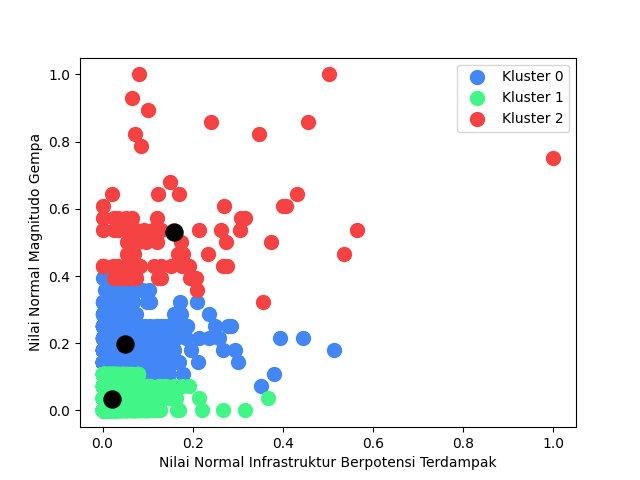
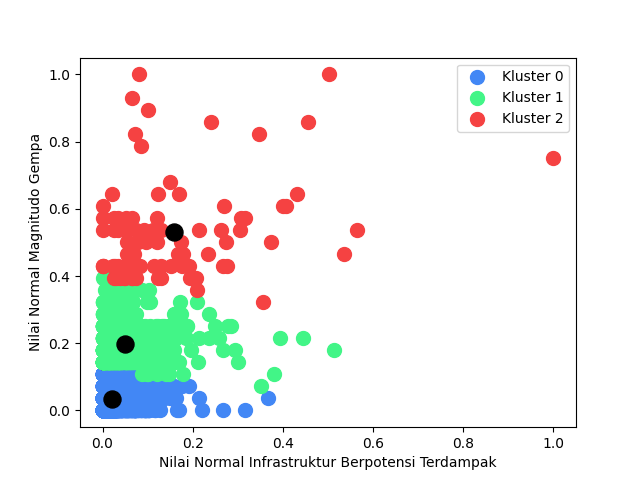
hopefully last commit

Changed region(s): [[0.125, 0.5625, 0.4375, 0.875], [0.4062, 0.6875, 0.5, 0.7188], [0.5, 0.7188, 0.5312, 0.75]]

diff --git a/mapgempa/templates/klustergempa.html b/mapgempa/templates/klustergempa.html
@@ -12,8 +12,53 @@ Kluster Data Gempa
 
 {% block extracontent %}
 <h2 class="text-center">Kluster Data Gempa Menggunakan Algoritma K-Means Clustering</h3>
-<div id="mappage" class="mt-5"></div>
 <div class="row d-flex justify-content-center">
+  <div class="col-12 mt-3">
+    <div id="mappage"></div>
+  </div>  
+  <div class="col-lg-12 mt-4 konten">
+    <p>
+      Salah satu fitur yang diterapkan pada WebGIS ini adalah analisis pengelompokkan data gempa pada database dengan algoritma K-Means Clustering berdasarkan magnitudo gempa dan 
+      jumlah infrastruktur berpotensi terdampak. Pengelompokkan data gempa dilakukan untuk mendapatkan kelompok data gempa berdasarkan kekuatan gempa dan potensi dampak yang 
+      dihasilkan sehingga instansi-instansi terkait dapat menyusun skala prioritas dan mengetahui daerah yang memiliki kerentanan terhadap bencana gempa bumi.
+      Tahapan yang dilakukan pada analisis pengelompokkan data gempa ini dibagi menjadi 3 tahapan, yaitu pengumpulan data, preprocessing data, dan analisis clustering dengan algoritma K-Means.
+    </p>
+    <p>
+      Tahapan pertama dari analisis pengelompokan data gempa ini merupakan pengumpulan data kejadian gempa yang bersumber dari dataset gempa dari situs web Earthquake Hazards Program 
+      milik United States Geological Survey (USGS) melalui situs https://earthquake.usgs.gov/. Data kejadian gempa yang digunakan merupakan data kejadian gempa pada tahun 2020-2021
+      dengan batasan wilayah berada diantara 94°BT - 142°BT hingga 7°LU - 12°LS dan magnitudo diatas 4,5. 
+      Variabel data yang digunakan dalam K-Means Clustering adalah kekuatan magnitudo kejadian gempa dan jumlah infrastruktur berpotensi terdampak kejadian gempa.
+    </p>
+    <p> 
+      Tahapan selanjutnya adalah preprocessing data yang terdiri dari penentuan variabel jumlah infrastruktur berpotensi terdampak tiap kejadian gempa dan normalisasi data. 
+      Penentuan variabel jumlah infrastruktur berpotensi terdampak didapatkan dari banyaknya infrastruktur PUPR yang berada pada radius gempa dirasakan dari pusat kejadian gempa. 
+      Radius gempa dirasakan dihitung dengan menggunakan rumus estimasi radius gempa dirasakan yang disusun oleh Guttenberg dan C. F. Richter (1956). 
+      Estimasi radius gempa dirasakan dihitung dengan memperhatikan persepsi minimum pada radius terluar mengalami percepatan pergerakan tanah sebesar 1 gal.
+      Berikut merupakan rumus estimasi radius gempa dirasakan:
+    </p>
+    <div class="d-flex justify-content-center" style="height: 30px;" data-aos="fade-up">
+      <img src="{% static 'assets/img/equation.png' %}" class="img-fluid" alt="rumus-radius">
+    </div>
+    <p style="text-indent: 0px;">
+      Dimana r merupakan radius gempa dirasakan dan M adalah magnitudo gempa.
+    </p>
+    <p>
+      Apabila seluruh variabel data kejadian gempa telah didapatkan, selanjutnya dilakukan normalisasi data dengan menggunakan metode normalisasi min-max. 
+      Normalisasi data dilakukan untuk mengubah variabel data agar memiliki distribusi yang serupa. Rumus perhitungan normalisasi min-max adalah sebagai berikut:
+    </p>
+    <div class="d-flex justify-content-center" style="height: 30px;" data-aos="fade-up">
+      <img src="{% static 'assets/img/normalized.png' %}" class="img-fluid" alt="rumus-radius">
+    </div>
+    <p style="text-indent: 0px;">
+      Dimana minRange dan maxRange merupakan jangkauan skala normal yang diinginkan, minValue merupakan nilai variabel terendah,
+      maxValue merupakan nilai variabel tertinggi, serta x merupakan nilai variabel tiap kejadian gempa.
+    </p>
+    <p>
+      Tahapan akhir dari analisis pengelompokkan data gempa ini adalah analisis clustering dengan menggunakan algoritma K-Means. Analisis clustering dilakukan menggunakan bahasa pemrograman Python
+      dengan bantuan library SKLearn sehingga proses analisis dapat dilakukan sepenuhnya dalam bagian server web. Data kejadian gempa dikelompokkan menjadi tiga kluster yang meliputi "Kluster 0", 
+      "Kluster 1", dan "Kluster 2".
+    </p>
+  </div>
   <div class="col-lg-6" data-aos="fade-up">
     <img src="{% static 'assets/img/cluster_figure.png' %}" class="img-fluid" alt="diagram-kluster">
   </div>
@@ -29,36 +74,45 @@ Kluster Data Gempa
         <th scope="col" class="col-3">Magnitudo</th>
         <th scope="col" class="col-3">Infrastruktur Berpotensi Terdampak</th>
       </tr>
-      {% for kluster in kluster %}
+      {% for n in kluster %}
       <tr>
         <td scope="row">
-          <span class="simbol" style="background-color: {{ kluster.warna }};"></span>
+          <span class="simbol" style="background-color: {{ n.warna }};"></span>
         </td>
-        <th class="my-auto">{{ kluster.name }}</th>
-        <td>{{ kluster.mag_centroid }}</td>
-        <td>{{ kluster.inf_centroid }}</td>
-        <td>{{ kluster.jumlah }}</td>
+        <th class="my-auto">{{ n.name }}</th>
+        <td>{{ n.mag_centroid }}</td>
+        <td>{{ n.inf_centroid }}</td>
+        <td>{{ n.jumlah }}</td>
       </tr>
       {% endfor %}
     </table>
   </div>
   <div class="col-lg-12 mt-4 konten">
-    <p>
-      Lorem ipsum dolor sit amet, consectetur adipiscing elit. Curabitur diam massa, egestas feugiat odio at, posuere elementum nulla. 
-      Maecenas malesuada arcu a lectus egestas posuere. Fusce non vulputate massa. Donec cursus tellus et leo elementum, vel efficitur diam 
-      fermentum. Quisque non tellus dui. Mauris porttitor, justo vel luctus varius, neque arcu rutrum nunc, a placerat metus nibh eu metus. Donec 
-      id quam tempus, tempus orci nec, tempus eros. Nullam ultricies posuere condimentum.
-    </p>
-    <div class="d-flex justify-content-center" style="height: 30px;" data-aos="fade-up">
-      <img src="{% static 'assets/img/equation.png' %}" class="img-fluid" alt="rumus-radius">
-    </div>
-    <p>
-      Aliquam urna felis, hendrerit et sodales nec, porta consectetur urna. Nulla in venenatis libero. Orci varius natoque penatibus et magnis 
-      dis parturient montes, nascetur ridiculus mus. Integer quis tincidunt nibh. Curabitur rhoncus tellus vitae diam congue, et semper arcu imperdiet. 
-      Sed volutpat in lacus eget lobortis. Nam malesuada ligula et felis pharetra placerat. Nulla facilisi. Sed a mi semper ante vestibulum scelerisque. 
-      Suspendisse ultrices vitae justo et dapibus. Nulla facilisi. Sed tempus est nec velit gravida, egestas tempus est molestie. Nunc non dui nulla. 
-      Nullam vehicula, urna at hendrerit feugiat, orci ligula lacinia nulla, posuere fringilla purus purus a nibh. Donec at diam id neque sodales tristique.
-    </p>
+    <P>
+      Grafik dan Tabel diatas merupakan hasil dari clustering data kejadian gempa dengan menggunakan algoritma K-Means.
+      Didapatkan tiga kluster gempa yang ditandai dengan warna-warna yang berbeda, "Kluster 0" dengan warna biru, "Kluster 1" dengan warna hijau, "Kluster 2" 
+      dengan warna merah, dan tanda hitam pada grafik merupakan centroid tiap-tiap kluster.
+    </P>
+    <P>
+      {% for n in kluster %}
+        {% if n.name == 'Kluster 2' %} 
+          Dari hasil yang didapatkan, dapat diketahui gempa yang terkategorikan pada 
+          <span class="kluster-tinggi">{{ n.name }}</span> 
+          merupakan kelompok gempa dengan potensi dampak yang paling besar, kluster ini memiliki centroid paling tinggi jika dibandingkan dengan kluster lain yaitu dengan nilai centroid mangitudo dalam skala normalisasi sebesar 
+          <span class="centroid-mag-tinggi">{{ n.mag_centroid }}</span> dan centroid Infrastruktur Berpotensi Terdampak dalam skala normalisasi sebesar 
+          <span class="centroid-inf-tinggi">{{ n.inf_centroid }}</span>.
+        {% endif %}
+      {% endfor %}
+        <!-- CHANGE WITH APROPRIATE CATEGORIES -->
+      {% for n in kluster %}
+        {% if n.name == 'Kluster 0' %}
+          Selanjutnya kluster dengan potensi dampak menengah merupakan 
+          <span class="kluster-tengah">{{ n.name }}</span> dengan nilai centroid mangitudo dalam skala normalisasi sebesar 
+          <span class="centroid-mag-tengah">{{ n.mag_centroid }}</span> dan centroid Infrastruktur Berpotensi Terdampak dalam skala normalisasi sebesar 
+          <span class="centroid-inf-tengah">{{ n.inf_centroid }}</span>.
+        {% endif %}
+      {% endfor %}
+    </P>
   </div>
 </div>
 {% endblock %}

diff --git a/mapgempa/templates/gempa.html b/mapgempa/templates/gempa.html
@@ -18,12 +18,8 @@
     <link href="https://fonts.googleapis.com/css?family=Open+Sans:300,300i,400,400i,600,600i,700,700i|Raleway:300,300i,400,400i,500,500i,600,600i,700,700i|Poppins:300,300i,400,400i,500,500i,600,600i,700,700i" rel="stylesheet">
   
     <!-- Vendor CSS Files -->
-    <link href="{% static 'assets/vendor/aos/aos.css' %}" rel="stylesheet">
     <link href="https://cdn.jsdelivr.net/npm/bootstrap@5.1.3/dist/css/bootstrap.min.css" rel="stylesheet" integrity="sha384-1BmE4kWBq78iYhFldvKuhfTAU6auU8tT94WrHftjDbrCEXSU1oBoqyl2QvZ6jIW3" crossorigin="anonymous">
     <link href="{% static 'assets/vendor/bootstrap-icons/bootstrap-icons.css' %}" rel="stylesheet">
-    <link href="{% static 'assets/vendor/boxicons/css/boxicons.min.css' %}" rel="stylesheet">
-    <link href="{% static 'assets/vendor/glightbox/css/glightbox.min.css' %}" rel="stylesheet">
-    <link href="{% static 'assets/vendor/swiper/swiper-bundle.min.css' %}" rel="stylesheet">
   
     <!-- Template Main CSS File -->
     <link href="{% static 'assets/css/style.css' %}" rel="stylesheet">
@@ -44,8 +40,8 @@
       <div id="sidebar-left" class="sidebar shadow-lg">
         <div class="sidebar-wrapper">
           <div id="toggle-left" class="toggle">
-            <button id="close-button-left" class="close-button" onClick="closeNavLeft()"><i class="bi bi-arrow-left-circle"></i></button></h3>
-            <button id="open-button-left" class="open-button" onClick="openNavLeft()"><i class="bi bi-arrow-right-circle"></i></button></h3>
+            <button id="close-button-left" class="close-button" onClick="closeNavLeft()"><i class="bi bi-chevron-double-left"></i></button></h3>
+            <button id="open-button-left" class="open-button" onClick="openNavLeft()"><i class="bi bi-chevron-double-right"></i></button></h3>
           </div>
             <div class="scrollbar">
               <ul>
@@ -126,19 +122,19 @@
       <div id="sidebar-right" class="sidebar shadow-lg">
         <div class="sidebar-wrapper">
           <div id="toggle-right" class="toggle">
-            <button id="close-button-right" class="close-button" onClick="closeNavRight()"><i class="bi bi-arrow-right-circle"></i></button></h3>
-            <button id="open-button-right" class="open-button" onClick="openNavRight()"><i class="bi bi-arrow-left-circle"></i></button></h3>
+            <button id="close-button-right" class="close-button" onClick="closeNavRight()"><i class="bi bi-chevron-double-right"></i></button></h3>
+            <button id="open-button-right" class="open-button" onClick="openNavRight()"><i class="bi bi-chevron-double-left"></i></button></h3>
           </div>
           <div class="scrollbar">
             <ul style="width: 100%;">
               <li>
                 <p class="sector-title">Basemap</p>
                 <div class="basemap" style="margin-right: 0px; margin-left: 0px;">
-                  <a href="#" data-toggle="tooltip" title="" class="basemap-selector" data-id="1" navbar-theme="themelight1" data-original-title="RupabumiIndonesia" style="background: url('https://srgi.big.go.id/assets/images/basemaps/basemap_rbi.png');background-size: cover" onclick="changebasemap(osm)"> 
+                  <a data-toggle="tooltip" title="OpenStreetMap" class="basemap-selector" style="background: url('{% static 'images/osm.png' %}');background-size: cover" onclick="changebasemap(osm)"> 
                   </a>
-                  <a href="#" data-toggle="tooltip" title="" class="basemap-selector active" data-id="2" navbar-theme="themelight1" data-original-title="OpenStreetMap" style="background: url('https://srgi.big.go.id/assets/images/basemaps/basemap_osm.png');background-size: cover" onclick="changebasemap(esri)">                            
+                  <a data-toggle="tooltip" title="Esri World Imagery" class="basemap-selector" style="background: url('{% static 'images/esri-image.png' %}');background-size: cover" onclick="changebasemap(esri)">                            
                   </a>
-                  <a href="#" data-toggle="tooltip" title="" class="basemap-selector" data-id="3" navbar-theme="themelight1" data-original-title="BingMap" style="background: url('https://srgi.big.go.id/assets/images/basemaps/basemap_bing.png');background-size: cover; margin-right: 0px;" onclick="changebasemap(Esri_WorldTopoMap)">
+                  <a data-toggle="tooltip" title="Esri World Topo" class="basemap-selector" style="background: url('{% static 'images/esri-topo.png' %}');background-size: cover; margin-right: 0px;" onclick="changebasemap(Esri_WorldTopoMap)">
                   </a>
                 </div>
               </li>           
@@ -215,16 +211,13 @@
 
       <!-- Vendor JS  -->
       <script src="https://code.jquery.com/jquery-2.1.4.min.js"></script>
-      <script src="{% static 'assets/vendor/aos/aos.js' %}"></script>
-      <script src="{% static 'assets/vendor/glightbox/js/glightbox.min.js' %}"></script>
       <script src="https://unpkg.com/leaflet@1.7.1/dist/leaflet.js" integrity="sha512-XQoYMqMTK8LvdxXYG3nZ448hOEQiglfqkJs1NOQV44cWnUrBc8PkAOcXy20w0vlaXaVUearIOBhiXZ5V3ynxwA==" crossorigin=""></script>
       <script src="https://cdnjs.cloudflare.com/ajax/libs/leaflet-ajax/2.1.0/leaflet.ajax.js"></script>
       <script src="{% static 'Control.MiniMap.min.js' %}"></script>
-      <script src="https://unpkg.com/sweetalert/dist/sweetalert.min.js"></script>
-      <script type="text/javascript" src="https://cdnjs.cloudflare.com/ajax/libs/jspdf/1.5.3/jspdf.min.js"></script>
-      <script type="text/javascript" src="https://html2canvas.hertzen.com/dist/html2canvas.js"></script>
+      <script src="https://cdnjs.cloudflare.com/ajax/libs/jspdf/1.5.3/jspdf.min.js"></script>
+      <script src="https://html2canvas.hertzen.com/dist/html2canvas.js"></script>
+      <script src="https://cdn.jsdelivr.net/npm/popper.js@1.12.9/dist/umd/popper.min.js"></script>
       <script src="https://cdn.jsdelivr.net/npm/bootstrap@4.0.0/dist/js/bootstrap.min.js" integrity="sha384-JZR6Spejh4U02d8jOt6vLEHfe/JQGiRRSQQxSfFWpi1MquVdAyjUar5+76PVCmYl" crossorigin="anonymous"></script>
-
 
       <!-- Template Main JS File -->
       <script src="{% static 'assets/js/main.js' %}"></script>

diff --git a/mapgempa/templates/navbar.html b/mapgempa/templates/navbar.html
@@ -1,25 +1,23 @@
 <header id="header" class="fixed-top  header-transparent shadow-lg">
-  <div class="container d-flex align-items-center justify-content-between">
-
-    <div class="logo">
-      <h1><a href="/">INFRAGempa</a></h1>
-      <!-- Uncomment below if you prefer to use an image logo -->
-      <!-- <a href="index.html"><img src="assets/img/logo.png" alt="" class="img-fluid"></a>-->
+    <div class="container d-flex align-items-center justify-content-between">
+    
+        <div class="logo">
+            <h1><a href="/">INFRAGempa</a></h1>
+        </div>
+    
+        <nav id="navbar" class="navbar">
+        <ul>
+            <li><a class="nav-link scrollto" href="/">Beranda</a></li>
+            <li><a class="nav-link scrollto" href="/#tentang">Tentang</a></li>  
+            <li><a class="nav-link scrollto" href="/#fitur">Fitur</a></li>
+            <li><a class="nav-link scrollto" href="/#kontak">Kontak Kami</a></li>
+            <li><a class="nav-link" href="/kluster-gempa">Kluster Gempa</a></li>
+            <li><a class="nav-link" href="/datagempa">Data Gempa</a></li>
+            <li><a class="nav-link" href="/kuesioner">Kuesioner</a></li>
+            <li><a class="getstarted scrollto" href="/infrastruktur-terdampak">Get Started</a></li>
+        </ul>
+        <i class="bi bi-list mobile-nav-toggle"></i>
+        </nav><!-- .navbar -->
+    
     </div>
-
-    <nav id="navbar" class="navbar">
-      <ul>
-        <li><a class="nav-link scrollto" href="/#hero">Beranda</a></li>
-        <li><a class="nav-link scrollto" href="/#tentang">Tentang</a></li>  
-        <li><a class="nav-link scrollto" href="/#fitur">Fitur</a></li>
-        <li><a class="nav-link scrollto" href="/#kontak">Kontak Kami</a></li>
-        <li><a class="nav-link" href="/kluster-gempa">Kluster Gempa</a></li>
-        <li><a class="nav-link" href="/datagempa">Data Gempa</a></li>
-        <li><a class="nav-link" href="/kuesioner">Kuesioner</a></li>
-        <li><a class="getstarted scrollto" href="/infrastruktur-terdampak">Get Started</a></li>
-      </ul>
-      <i class="bi bi-list mobile-nav-toggle"></i>
-    </nav><!-- .navbar -->
-
-  </div>
 </header><!-- End Header -->

diff --git a/mapgempa/static/webmap.css b/mapgempa/static/webmap.css
@@ -32,6 +32,7 @@
   width: 45px;
   height: 45px;
   z-index : 500;
+  color: #5777ba;
 }
 #toggle-left {
   left: 300px;
@@ -45,14 +46,14 @@
   height: 100%;
   border: 0;
   border-radius: 100%;
-  display: block
+  display: block;
 }
 .open-button {
   width: 100%;
   height: 100%;
   border: 0;
   border-radius: 100%;
-  display: none;  
+  display: none;
 }
 
 .scrollbar {

diff --git a/mapgempa/templates/base.html b/mapgempa/templates/base.html
@@ -32,6 +32,7 @@
     <link rel="stylesheet" href="{% static 'Control.MiniMap.min.css' %}">
     <link rel="stylesheet" href="{% static 'normalize.css' %}">
     <link rel="stylesheet" href="{% static 'base.css' %}">
+    <link rel="stylesheet" href="{% static 'inner-page.css' %}">
     <link rel="stylesheet" href="{% static 'map.css' %}">
 </head>
 

diff --git a/mapgempa/static/base.js b/mapgempa/static/base.js
@@ -99,6 +99,10 @@ function download() {
   printWindow.print();
 };
 
+$(document).ready(function() {
+  $("body").tooltip({ selector: '[data-toggle=tooltip]' });
+});
+
 // INDEX
 const lightbox = GLightbox({
   touchNavigation: true,

diff --git a/mapgempa/load.py b/mapgempa/load.py
@@ -92,9 +92,9 @@ def load_data(verbose=True):
     rs.save(strict=True, verbose=verbose)
 
 def preprocess():
-    qs = gempa.objects.all()
+    qs = gempa.objects.order_by('id')
+
     for elem in qs:
-        i = 0
         elem.datetime = datetime.strptime(elem.timetemp, '%Y/%m/%d %H:%M:%S.%f')
         eq = float(elem.magnitude) - 0.614
         elem.estimasiradius = round(1.4*(eq**3))
@@ -106,5 +106,5 @@ def preprocess():
         ia = ipal.objects.filter(geom__distance_lt = (elem.geom, D(km=elem.estimasiradius)))
         rw = rusunawa.objects.filter(geom__distance_lt = (elem.geom, D(km=elem.estimasiradius)))
         rs = rumah_khusus.objects.filter(geom__distance_lt = (elem.geom, D(km=elem.estimasiradius)))
-        elem.jumlahinf = i + len(jm) + len(bn) + len(tp) + len(sp) + len(il) + len(ia) + len(rw) + len(rs)
+        elem.jumlahinf = len(jm) + len(bn) + len(tp) + len(sp) + len(il) + len(ia) + len(rw) + len(rs)
         elem.save()

diff --git a/mapgempa/kmeanscluster.py b/mapgempa/kmeanscluster.py
@@ -1,6 +1,6 @@
 import os
 from sklearn.cluster import KMeans
-from .models import gempa, kluster
+from mapgempa.models import gempa, kluster
 import pandas as pd
 import numpy as np
 import matplotlib.pyplot as plt
@@ -16,12 +16,17 @@ def inf_cluster():
     # NORMALISASI MAGNITUDO DAN JUMLAH INFRASTRUKTUR BERPOTENSI TERDAMPAK
     normalized_inf = []
     normalized_mag = []
-
+    
     i = 0
-    for n in data.magnitude:
+    
+    for elem in qs:
         normal_mag = (data.magnitude[i]-data.magnitude.min())/(data.magnitude.max()-data.magnitude.min())
         normal_inf = (data.jumlahinf[i]-data.jumlahinf.min())/(data.jumlahinf.max()-data.jumlahinf.min())
         
+        elem.normal_mag = normal_mag
+        elem.normal_inf = normal_inf
+
+        elem.save()
         normalized_mag.append(normal_mag)
         normalized_inf.append(normal_inf)
         i += 1

diff --git a/mapgempa/migrations/0004_auto_20220510_1633.py b/mapgempa/migrations/0004_auto_20220510_1633.py
@@ -1,0 +1,23 @@
+# Generated by Django 3.2.10 on 2022-05-10 09:33
+
+from django.db import migrations, models
+
+
+class Migration(migrations.Migration):
+
+    dependencies = [
+        ('mapgempa', '0003_kluster_warna'),
+    ]
+
+    operations = [
+        migrations.AddField(
+            model_name='gempa',
+            name='normal_inf',
+            field=models.FloatField(null=True),
+        ),
+        migrations.AddField(
+            model_name='gempa',
+            name='normal_rad',
+            field=models.FloatField(null=True),
+        ),
+    ]

diff --git a/mapgempa/migrations/0005_rename_normal_rad_gempa_normal_mag.py b/mapgempa/migrations/0005_rename_normal_rad_gempa_normal_mag.py
@@ -1,0 +1,18 @@
+# Generated by Django 3.2.10 on 2022-05-10 09:48
+
+from django.db import migrations
+
+
+class Migration(migrations.Migration):
+
+    dependencies = [
+        ('mapgempa', '0004_auto_20220510_1633'),
+    ]
+
+    operations = [
+        migrations.RenameField(
+            model_name='gempa',
+            old_name='normal_rad',
+            new_name='normal_mag',
+        ),
+    ]

diff --git a/mapgempa/models.py b/mapgempa/models.py
@@ -12,6 +12,8 @@ class gempa(models.Model):
     datetime = models.DateTimeField(null=True)
     estimasiradius = models.FloatField(null=True)
     jumlahinf = models.IntegerField(null=True)
+    normal_mag = models.FloatField(null=True)
+    normal_inf = models.FloatField(null=True)
     cluster = models.IntegerField(null=True)
 
     geom = models.PointField()
